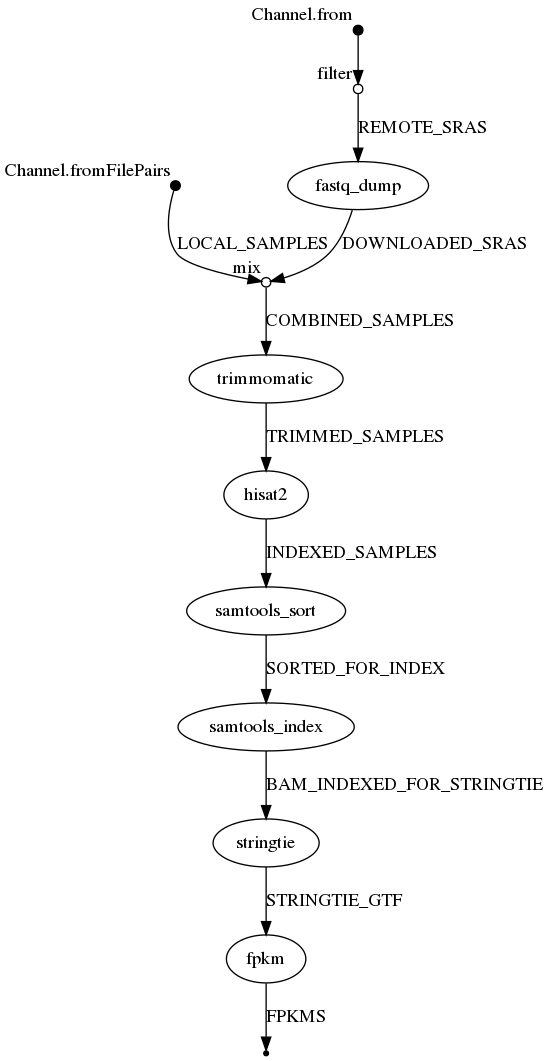
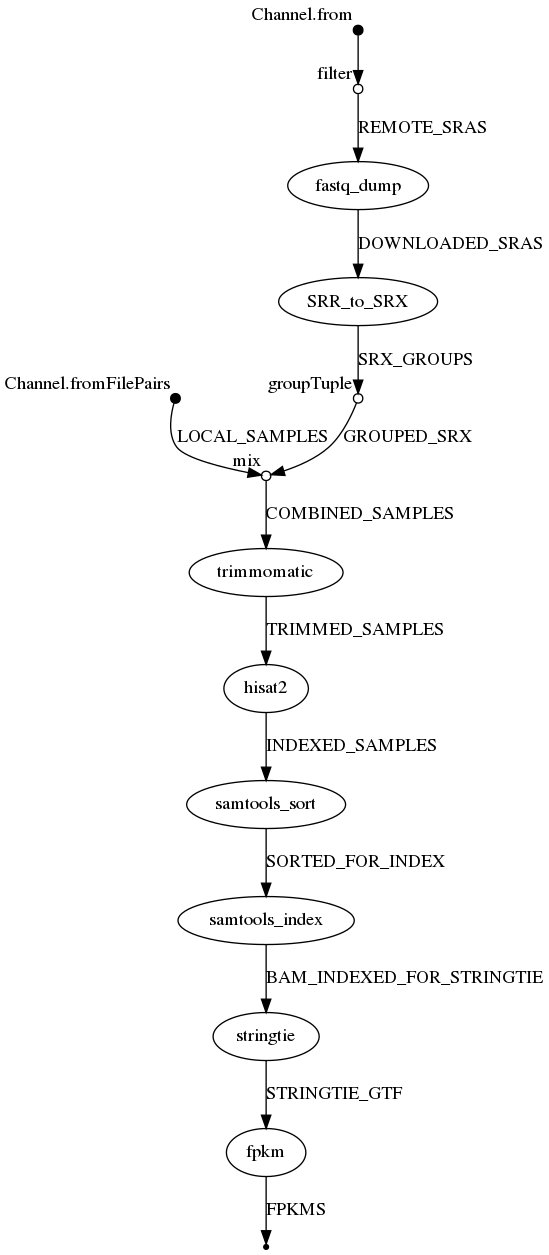
Merging Johns SRA to SRX work.

diff --git a/scripts/retrieve_sample_metadata.py b/scripts/retrieve_sample_metadata.py
@@ -1,0 +1,41 @@
+import sys
+import urllib
+import xmltodict
+
+query = 'https://eutils.ncbi.nlm.nih.gov/entrez/eutils/esearch.fcgi?db=sra&term='
+fetch = 'https://eutils.ncbi.nlm.nih.gov/entrez/eutils/efetch.fcgi?db=sra&id='
+
+script, SRR = sys.argv
+
+
+def download_json (line):
+    '''
+    This function downlads the data for a SRR and returns its SRX.
+    '''
+    # Get the current SRA ID.
+    sra_id = line.strip()
+
+    # First perform the entrez query with the SRA database.
+    response_obj = urllib.request.urlopen(query + sra_id + '[Accession]')
+    response_xml = response_obj.read()
+    response = xmltodict.parse(response_xml)
+    query_id = response['eSearchResult']['IdList']['Id']
+
+    # Next get the query results. We are only querying a single SRA
+    # record at a time.
+    response_obj = urllib.request.urlopen(fetch + query_id)
+    response_xml = response_obj.read()
+    response = xmltodict.parse(response_xml)
+
+    # This returns all the SRR numbers associated with this SRX
+    sys.stdout.write(
+        response
+        ["EXPERIMENT_PACKAGE_SET"]
+        ["EXPERIMENT_PACKAGE"]
+        ["EXPERIMENT"]
+        ["IDENTIFIERS"]
+        ["PRIMARY_ID"])
+
+
+if __name__ == "__main__":
+    download_json(SRR)
